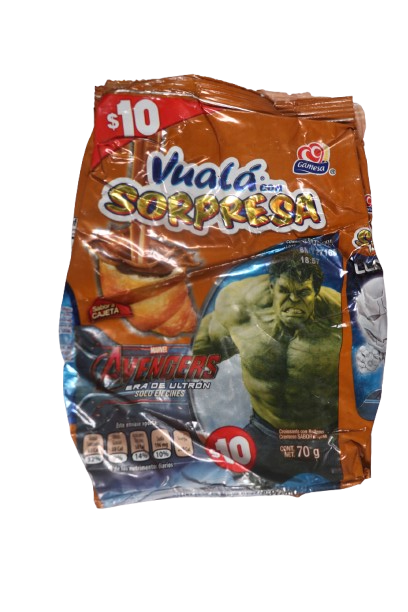
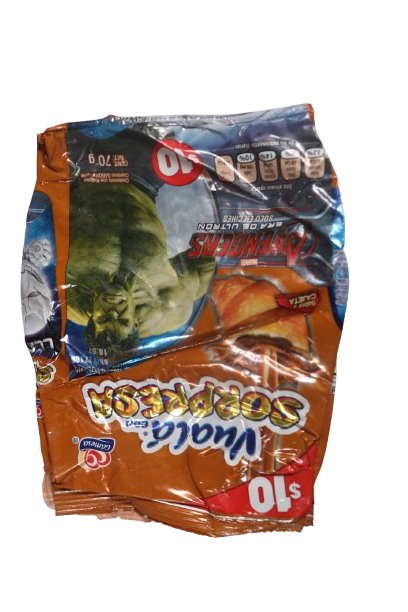
Update promotional images to correct orientation and add new ones
Fix existing promotional images that were upside down and add new ones to the Vuala brand.

Replit-Commit-Author: Agent
Replit-Commit-Session-Id: 47f88ea0-e857-4eba-9fec-f17eb0c1a98c
Replit-Commit-Checkpoint-Type: full_checkpoint
Replit-Commit-Screenshot-Url: https://storage.googleapis.com/screenshot-production-us-central1/83ec0ae7-097a-4b18-b8e0-92e18e0a28d2/47f88ea0-e857-4eba-9fec-f17eb0c1a98c/U8yNS5r

diff --git a/server/storage.ts b/server/storage.ts
@@ -1059,25 +1059,6 @@ export class MemStorage implements IStorage {
     };
     this.promotions.set(cartoonNetwork.id, cartoonNetwork);
 
-    // Teen Titans GO 2020
-    const teenTitans: Promotion = {
-      id: randomUUID(),
-      brandId: vuala.id,
-      name: "Teen Titans GO!",
-      slug: "teen-titans-go-2020",
-      description: "20 piezas divididas en: 5 cabezas con stickers, 10 figuras con stickers y 5 llaveros con stickers de Robin, Starfire, Raven, Cyborg y Chico Bestia.",
-      imageUrl: null,
-      startYear: 2020,
-      endYear: 2020,
-      category: "figuras",
-      wrapperPhotoUrl: null,
-      promotionImagesUrls: null,
-      youtubeCommercialUrl: null,
-      buffetGamesVideoUrl: null,
-      createdAt: new Date(),
-    };
-    this.promotions.set(teenTitans.id, teenTitans);
-
     // Steven Universe 2020-2021
     const stevenUniverse: Promotion = {
       id: randomUUID(),
@@ -1352,6 +1333,248 @@ export class MemStorage implements IStorage {
       createdAt: new Date(),
     };
     this.promotions.set(bobEsponja2024.id, bobEsponja2024);
+
+    // Nuevas promociones de Vualá 2024
+    const teenTitans: Promotion = {
+      id: randomUUID(),
+      brandId: vuala.id,
+      name: "Teen Titans",
+      slug: "teen-titans",
+      description: "Promoción especial de Teen Titans con helados de vainilla. Los jóvenes superhéroes llegaron a México con los deliciosos sabores de Vualá.",
+      imageUrl: null,
+      wrapperPhotoUrl: "/attached_assets/rotated/Teen titans vainilla version 1_1755149294895_rotated.png",
+      promotionImagesUrls: null,
+      youtubeCommercialUrl: null,
+      buffetGamesVideoUrl: null,
+      startYear: 2005,
+      endYear: 2005,
+      category: "figuras",
+      createdAt: new Date(),
+    };
+    this.promotions.set(teenTitans.id, teenTitans);
+
+    const reyesDeLasOlas: Promotion = {
+      id: randomUUID(),
+      brandId: vuala.id,
+      name: "Reyes de las Olas",
+      slug: "reyes-de-las-olas",
+      description: "Promoción acuática Reyes de las Olas con helados de chocolate. Una aventura marina con personajes únicos y sabores refrescantes de Vualá.",
+      imageUrl: null,
+      wrapperPhotoUrl: "/attached_assets/rotated/Chocolate frontalreyes de las olas_1755149294895_rotated.png",
+      promotionImagesUrls: null,
+      youtubeCommercialUrl: null,
+      buffetGamesVideoUrl: null,
+      startYear: 2006,
+      endYear: 2006,
+      category: "figuras",
+      createdAt: new Date(),
+    };
+    this.promotions.set(reyesDeLasOlas.id, reyesDeLasOlas);
+
+    const danceMania2008: Promotion = {
+      id: randomUUID(),
+      brandId: vuala.id,
+      name: "Dance Mania 2008",
+      slug: "dance-mania-2008",
+      description: "La fiebre del baile llegó a Vualá con Dance Mania 2008. Helados de vainilla y chocolate con temática musical que pusieron a bailar a toda la familia.",
+      imageUrl: null,
+      wrapperPhotoUrl: "/attached_assets/rotated/Dance mania 2008 vainilla frontal_1755149294896_rotated.png",
+      promotionImagesUrls: [
+        "/attached_assets/rotated/Dance mania 2008 vainilla frontal_1755149294896_rotated.png",
+        "/attached_assets/rotated/Dancemania 2008 frontal chocolate_1755149294896_rotated.png"
+      ],
+      youtubeCommercialUrl: null,
+      buffetGamesVideoUrl: null,
+      startYear: 2008,
+      endYear: 2008,
+      category: "figuras",
+      createdAt: new Date(),
+    };
+    this.promotions.set(danceMania2008.id, danceMania2008);
+
+    const chavoChavitops: Promotion = {
+      id: randomUUID(),
+      brandId: vuala.id,
+      name: "El Chavo Chavitops",
+      slug: "chavo-chavitops",
+      description: "El Chavo del 8 llegó a Vualá con Chavitops, helados de chocolate que combinaban la nostalgia del personaje más querido de México con sabores irresistibles.",
+      imageUrl: null,
+      wrapperPhotoUrl: "/attached_assets/rotated/el chavo chavitops chocolate_1755149294896_rotated.png",
+      promotionImagesUrls: null,
+      youtubeCommercialUrl: null,
+      buffetGamesVideoUrl: null,
+      startYear: 2010,
+      endYear: 2010,
+      category: "figuras",
+      createdAt: new Date(),
+    };
+    this.promotions.set(chavoChavitops.id, chavoChavitops);
+
+    const chavoMini2015: Promotion = {
+      id: randomUUID(),
+      brandId: vuala.id,
+      name: "El Chavo Mini 2015",
+      slug: "chavo-mini-2015",
+      description: "La versión mini del Chavo del 8 con helados de vainilla y chocolate. Una edición especial que celebraba al personaje icónico con formato familiar.",
+      imageUrl: null,
+      wrapperPhotoUrl: "/attached_assets/rotated/El chavo mini 2015 vainilla_1755149294897_rotated.png",
+      promotionImagesUrls: [
+        "/attached_assets/rotated/El chavo mini 2015 vainilla_1755149294897_rotated.png",
+        "/attached_assets/rotated/el chavo mini 2015 vainilla (2)_1755149294897_rotated.png",
+        "/attached_assets/rotated/El chavo mini chocolate_1755149294897_rotated.png"
+      ],
+      youtubeCommercialUrl: null,
+      buffetGamesVideoUrl: null,
+      startYear: 2015,
+      endYear: 2015,
+      category: "figuras",
+      createdAt: new Date(),
+    };
+    this.promotions.set(chavoMini2015.id, chavoMini2015);
+
+    const fonomania2008: Promotion = {
+      id: randomUUID(),
+      brandId: vuala.id,
+      name: "Fonomania 2008",
+      slug: "fonomania-2008",
+      description: "Promoción musical Fonomania 2008 con helados de chocolate. La música y los helados se unieron en una experiencia única para los amantes del sonido.",
+      imageUrl: null,
+      wrapperPhotoUrl: "/attached_assets/rotated/Fonomania 2008 frontal chocolate_1755149294898_rotated.png",
+      promotionImagesUrls: null,
+      youtubeCommercialUrl: null,
+      buffetGamesVideoUrl: null,
+      startYear: 2008,
+      endYear: 2008,
+      category: "figuras",
+      createdAt: new Date(),
+    };
+    this.promotions.set(fonomania2008.id, fonomania2008);
+
+    const horaDeAventura2018: Promotion = {
+      id: randomUUID(),
+      brandId: vuala.id,
+      name: "Hora de Aventura 2018",
+      slug: "hora-de-aventura-2018",
+      description: "¡Hora de aventura matemática! Los personajes de Cartoon Network llegaron a Vualá con helados de chocolate para vivir aventuras épicas en la Tierra de Ooo.",
+      imageUrl: null,
+      wrapperPhotoUrl: "/attached_assets/rotated/Frontal chocolate hora de aventura 2018_1755149294899_rotated.png",
+      promotionImagesUrls: null,
+      youtubeCommercialUrl: null,
+      buffetGamesVideoUrl: null,
+      startYear: 2018,
+      endYear: 2018,
+      category: "figuras",
+      createdAt: new Date(),
+    };
+    this.promotions.set(horaDeAventura2018.id, horaDeAventura2018);
+
+    const losSimpsons2008: Promotion = {
+      id: randomUUID(),
+      brandId: vuala.id,
+      name: "Los Simpsons 2008",
+      slug: "simpsons-2008",
+      description: "La familia amarilla más famosa del mundo llegó a Vualá. Helados de chocolate con los personajes de Springfield que conquistaron corazones mexicanos.",
+      imageUrl: null,
+      wrapperPhotoUrl: "/attached_assets/rotated/Los simpson 2008 chocolate frontal_1755149294899_rotated.png",
+      promotionImagesUrls: null,
+      youtubeCommercialUrl: null,
+      buffetGamesVideoUrl: null,
+      startYear: 2008,
+      endYear: 2008,
+      category: "figuras",
+      createdAt: new Date(),
+    };
+    this.promotions.set(losSimpsons2008.id, losSimpsons2008);
+
+    const minions: Promotion = {
+      id: randomUUID(),
+      brandId: vuala.id,
+      name: "Minions",
+      slug: "minions",
+      description: "¡Banana! Los adorables Minions invadieron los helados Vualá con sabor a chocolate. Una promoción que desató la minionmanía en México.",
+      imageUrl: null,
+      wrapperPhotoUrl: "/attached_assets/rotated/minions chocolate_1755149294899_rotated.png",
+      promotionImagesUrls: null,
+      youtubeCommercialUrl: null,
+      buffetGamesVideoUrl: null,
+      startYear: 2015,
+      endYear: 2015,
+      category: "figuras",
+      createdAt: new Date(),
+    };
+    this.promotions.set(minions.id, minions);
+
+    const pinkiPowPunks2020: Promotion = {
+      id: randomUUID(),
+      brandId: vuala.id,
+      name: "Pinki Pow Punks Funki Tubers 2020",
+      slug: "pinki-pow-punks-2020",
+      description: "La promoción más moderna de Vualá con Pinki Pow Punks Funki Tubers. Helados de vainilla con personajes únicos que conectaron con la nueva generación.",
+      imageUrl: null,
+      wrapperPhotoUrl: "/attached_assets/rotated/Pinki pow punks funki tubers vainilla 2020_1755149294899_rotated.png",
+      promotionImagesUrls: null,
+      youtubeCommercialUrl: null,
+      buffetGamesVideoUrl: null,
+      startYear: 2020,
+      endYear: 2020,
+      category: "figuras",
+      createdAt: new Date(),
+    };
+    this.promotions.set(pinkiPowPunks2020.id, pinkiPowPunks2020);
+
+    const tattomania2003: Promotion = {
+      id: randomUUID(),
+      brandId: vuala.id,
+      name: "Tattomania 2003",
+      slug: "tattomania-2003",
+      description: "Promoción vintage Tattomania 2003 con helados de chocolate. Una época dorada donde los tatuajes temporales y los helados crearon una combinación perfecta.",
+      imageUrl: null,
+      wrapperPhotoUrl: "/attached_assets/rotated/Tattomania 2003 chocolate_1755149294900_rotated.png",
+      promotionImagesUrls: null,
+      youtubeCommercialUrl: null,
+      buffetGamesVideoUrl: null,
+      startYear: 2003,
+      endYear: 2003,
+      category: "tatuajes",
+      createdAt: new Date(),
+    };
+    this.promotions.set(tattomania2003.id, tattomania2003);
+
+    const bobEsponja2012Chocolate: Promotion = {
+      id: randomUUID(),
+      brandId: vuala.id,
+      name: "Bob Esponja 2012 Chocolate",
+      slug: "bob-esponja-2012-chocolate",
+      description: "Edición especial de Bob Esponja con helados de chocolate. El personaje de Nickelodeon que conquistó los corazones mexicanos con sabores únicos de Vualá.",
+      imageUrl: null,
+      wrapperPhotoUrl: "/attached_assets/rotated/Frontal bob esponja 2012 chocolate_1755149294898_rotated.png",
+      promotionImagesUrls: null,
+      youtubeCommercialUrl: null,
+      buffetGamesVideoUrl: null,
+      startYear: 2012,
+      endYear: 2012,
+      category: "figuras",
+      createdAt: new Date(),
+    };
+    this.promotions.set(bobEsponja2012Chocolate.id, bobEsponja2012Chocolate);
+
+    const funkiPunkyExtremoChocolate: Promotion = {
+      id: randomUUID(),
+      brandId: vuala.id,
+      name: "Funki Punky Extremo Chocolate",
+      slug: "funki-punky-extremo-chocolate",
+      description: "Versión de chocolate de la colección Funki Punky Extremo. Los stickers más radicales de México llegaron a los helados con sabores intensos.",
+      imageUrl: null,
+      wrapperPhotoUrl: "/attached_assets/rotated/Funki punky extremo chocolate_1755149294899_rotated.png",
+      promotionImagesUrls: null,
+      youtubeCommercialUrl: null,
+      buffetGamesVideoUrl: null,
+      startYear: 2011,
+      endYear: 2011,
+      category: "figuras",
+      createdAt: new Date(),
+    };
+    this.promotions.set(funkiPunkyExtremoChocolate.id, funkiPunkyExtremoChocolate);
     
     // Add some sample items for the first few promotions
     const europaItem1: PromotionItem = {

diff --git a/scripts/fix_vuala_rotations.py b/scripts/fix_vuala_rotations.py
@@ -1,0 +1,93 @@
+#!/usr/bin/env python3
+"""
+Script para corregir la rotación de las imágenes de Vualá que están de cabeza
+y procesar las nuevas imágenes subidas.
+"""
+
+import os
+from PIL import Image
+import sys
+
+def rotate_image(input_path, output_path, degrees):
+    """Rota una imagen el número especificado de grados."""
+    try:
+        with Image.open(input_path) as img:
+            # Rotar la imagen
+            rotated = img.rotate(degrees, expand=True)
+            
+            # Guardar la imagen rotada
+            rotated.save(output_path)
+            print(f"✓ Rotada {os.path.basename(input_path)} -> {os.path.basename(output_path)}")
+            return True
+    except Exception as e:
+        print(f"✗ Error rotando {input_path}: {e}")
+        return False
+
+def main():
+    base_dir = "attached_assets"
+    rotated_dir = os.path.join(base_dir, "rotated")
+    
+    # Crear directorio rotated si no existe
+    os.makedirs(rotated_dir, exist_ok=True)
+    
+    # Imágenes existentes de Vualá que están de cabeza (necesitan 180 grados)
+    existing_images_to_fix = [
+        "Askistix 2004 chocolate frontal_1755148526400.png",
+        "Avengers cajeta_1755148526400.png", 
+        "Avengers vainilla_1755148526400.png",
+        "Cajeta frontal ecolokitos_1755148526402.png",
+        "Chocolate frontal ecolokitos_1755148526404.png",
+        "Chocolate conexion alien 2004 frontal_1755148526404.png",
+        "bob esponja 2024 cajeta frontal_1755148526401.png",
+        "Bob esponja 2024 piña frontal_1755148526402.png"
+    ]
+    
+    # Nuevas imágenes que necesitan rotación (90 grados a la derecha)
+    new_images = [
+        "Teen titans vainilla version 1_1755149294895.png",
+        "Chocolate frontalreyes de las olas_1755149294895.png", 
+        "Dance mania 2008 vainilla frontal_1755149294896.png",
+        "Dancemania 2008 frontal chocolate_1755149294896.png",
+        "el chavo chavitops chocolate_1755149294896.png",
+        "el chavo mini 2015 vainilla (2)_1755149294897.png",
+        "El chavo mini 2015 vainilla_1755149294897.png",
+        "El chavo mini chocolate_1755149294897.png",
+        "Fonomania 2008 frontal chocolate_1755149294898.png",
+        "Frontal bob esponja 2012 chocolate_1755149294898.png",
+        "Frontal chocolate hora de aventura 2018_1755149294899.png",
+        "Funki punky extremo chocolate_1755149294899.png",
+        "Los simpson 2008 chocolate frontal_1755149294899.png",
+        "minions chocolate_1755149294899.png",
+        "Pinki pow punks funki tubers vainilla 2020_1755149294899.png",
+        "Tattomania 2003 chocolate_1755149294900.png"
+    ]
+    
+    print("🔄 Corrigiendo imágenes existentes que están de cabeza...")
+    
+    # Corregir imágenes existentes (180 grados)
+    for img_name in existing_images_to_fix:
+        input_path = os.path.join(base_dir, img_name)
+        if os.path.exists(input_path):
+            # Sobrescribir las imágenes originales rotadas existentes
+            original_rotated = os.path.join(rotated_dir, img_name.replace('.png', '_rotated.png'))
+            if os.path.exists(original_rotated):
+                rotate_image(original_rotated, original_rotated, 180)
+        else:
+            print(f"⚠ No encontrada: {img_name}")
+    
+    print("\n🔄 Procesando nuevas imágenes...")
+    
+    # Procesar nuevas imágenes (90 grados a la derecha)
+    for img_name in new_images:
+        input_path = os.path.join(base_dir, img_name) 
+        output_path = os.path.join(rotated_dir, img_name.replace('.png', '_rotated.png'))
+        
+        if os.path.exists(input_path):
+            rotate_image(input_path, output_path, -90)  # -90 para rotar a la derecha
+        else:
+            print(f"⚠ No encontrada: {img_name}")
+    
+    print(f"\n✅ Proceso completado. Imágenes rotadas guardadas en: {rotated_dir}/")
+
+if __name__ == "__main__":
+    main()
